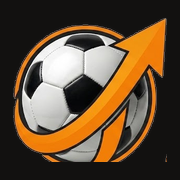
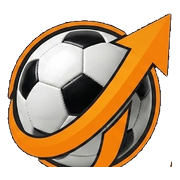
파비콘 배경 제거, 열린 기사에 테두리, 브랜드 색을 실제로 쓰기
파비콘 뒤에 깔아둔 판때기를 없앤다. 공 뒤에 스티커를 붙인 것처럼
보였고, 브라우저가 칠하는 탭 배경과도 싸운다. 투명 배경으로 간다.

열린 기사는 이제 브랜드 주황으로 테두리를 두르고 면을 띄운다. 배경만
살짝 밝히는 건 "내가 연 기사" 가 아니라 hover 로 읽혔다.

브랜드 색이 팔레트 값으로만 있고 화면에는 거의 안 나왔다. 리본
그라디언트를 토큰으로 만들어 실제로 쓴다 — 헤더 아래 2px 룰, 수집
버튼, 사이드바 패널 제목 옆 표식, 모달의 주요 버튼. 강조색 단색으로는
로고의 색이라고 읽히지 않았다.

diff --git a/components/DiscordPanel.tsx b/components/DiscordPanel.tsx
@@ -282,7 +282,14 @@ export function DiscordPanel({ teams }: { teams: Team[] }) {
   return (
     <section className="rounded-xl border border-border bg-surface p-4">
       <div className="flex items-center justify-between">
-        <h2 className="text-[13px] font-semibold">디스코드 알림</h2>
+        <h2 className="flex items-center gap-2 text-[13px] font-semibold">
+          <span
+            aria-hidden
+            className="h-[13px] w-[3px] rounded-full"
+            style={{ background: "var(--ribbon)" }}
+          />
+          디스코드 알림
+        </h2>
         <button
           type="button"
           onClick={openAdd}
@@ -412,7 +419,8 @@ export function DiscordPanel({ teams }: { teams: Team[] }) {
               type="button"
               onClick={unlock}
               disabled={pending || loading || !auth}
-              className="w-full rounded-[5px] bg-accent px-3 py-2.5 text-[12px] font-semibold text-accent-ink transition-opacity hover:opacity-90 disabled:opacity-40"
+              style={{ background: "var(--ribbon)" }}
+              className="w-full rounded-[5px] px-3 py-2.5 text-[12px] font-semibold text-accent-ink transition-opacity hover:opacity-90 disabled:opacity-40"
             >
               {loading ? "확인 중…" : "확인"}
             </button>
@@ -602,7 +610,8 @@ export function DiscordPanel({ teams }: { teams: Team[] }) {
               type="button"
               onClick={submit}
               disabled={pending || loading || !url || picked.length === 0}
-              className="w-full rounded-[5px] bg-accent px-3 py-2.5 text-[12px] font-semibold text-accent-ink transition-opacity hover:opacity-90 disabled:opacity-40"
+              style={{ background: "var(--ribbon)" }}
+              className="w-full rounded-[5px] px-3 py-2.5 text-[12px] font-semibold text-accent-ink transition-opacity hover:opacity-90 disabled:opacity-40"
             >
               {pending ? "저장 중…" : editing ? "수정" : "등록"}
             </button>
@@ -680,7 +689,8 @@ export function DiscordPanel({ teams }: { teams: Team[] }) {
             type="button"
             onClick={claim}
             disabled={pending || claimPass.length < 4}
-            className="w-full rounded-[5px] bg-accent px-3 py-2.5 text-[12px] font-semibold text-accent-ink transition-opacity hover:opacity-90 disabled:opacity-40"
+            style={{ background: "var(--ribbon)" }}
+            className="w-full rounded-[5px] px-3 py-2.5 text-[12px] font-semibold text-accent-ink transition-opacity hover:opacity-90 disabled:opacity-40"
           >
             {pending ? "확인 중…" : "불러오기"}
           </button>

diff --git a/components/ArticleCard.tsx b/components/ArticleCard.tsx
@@ -58,18 +58,24 @@ export function ArticleCard({
   return (
     <article
       // A hairline between rows: without one a column of headlines ran together
-      // and the eye had to find each boundary from the text alone. An open row
-      // gets a lit surface and a brighter rule so it is obvious which story is
-      // being read.
-      className={`group relative border-b border-border/70 transition-colors last:border-b-0 ${
-        open ? "bg-surface-2/70" : ""
+      // and the eye had to find each boundary from the text alone.
+      //
+      // The open row is ringed in the brand orange and lifted off the page. A
+      // tinted background alone was not enough to say "this is the one you
+      // opened" — it read as a hover state.
+      className={`group relative transition-colors ${
+        open
+          ? "z-10 my-1 rounded-lg border border-accent/45 bg-surface-2 shadow-[0_0_0_1px_rgba(241,128,11,0.12),0_8px_24px_-12px_rgba(0,0,0,0.9)]"
+          : "border-b border-border last:border-b-0"
       }`}
     >
       {/* Presence, not decoration: the bar is only as strong as the tier — and
           it widens when the row is open. */}
       <span
         aria-hidden
-        className={`absolute inset-y-0 left-0 transition-all ${open ? "w-[5px]" : "w-[3px]"}`}
+        className={`absolute inset-y-0 left-0 transition-all ${
+          open ? "w-[5px] rounded-l-lg" : "w-[3px]"
+        }`}
         style={{
           backgroundColor: tierRule(row.tier, row.official),
           opacity: open ? 1 : 0.85,

diff --git a/app/page.tsx b/app/page.tsx
@@ -91,7 +91,9 @@ export default async function Home({
     <div className="min-h-screen bg-bg">
       {/* Opaque, not translucent: a backdrop-blur header let article text
             bleed through it while scrolling. */}
-      <header className="sticky top-0 z-30 border-b border-border bg-bg/95 backdrop-blur-sm">
+      {/* The rule under the header is the ribbon, not a grey hairline — the
+          one place the brand colour spans the whole width. */}
+      <header className="sticky top-0 z-30 bg-bg/95 backdrop-blur-sm">
         <div className="mx-auto flex max-w-5xl items-center gap-3 px-4 py-3 sm:px-5">
           {/* ITK — In The Know, transfer-market slang for someone with real
                 sources, which is what the tier list ranks. Doubles as the way
@@ -113,6 +115,11 @@ export default async function Home({
             <CollectButton />
           </div>
         </div>
+        <div
+          aria-hidden
+          className="h-[2px] w-full"
+          style={{ background: "var(--ribbon)" }}
+        />
       </header>
 
       <div className="mx-auto max-w-5xl gap-5 lg:flex lg:px-5 lg:py-5">

diff --git a/components/CollectButton.tsx b/components/CollectButton.tsx
@@ -50,7 +50,8 @@ export function CollectButton() {
         onClick={() => run()}
         disabled={state === "running"}
         title="지금 수집 (0티어 + 매체 피드, 약 30초)"
-        className="inline-flex items-center gap-1.5 rounded-[5px] border border-border px-2.5 py-1.5 text-[11px] font-medium text-muted transition-colors hover:border-border-strong hover:text-text disabled:opacity-50"
+        className="inline-flex items-center gap-1.5 rounded-[5px] px-3 py-1.5 text-[11px] font-semibold text-accent-ink transition-opacity hover:opacity-90 disabled:opacity-50"
+        style={{ background: "var(--ribbon)" }}
       >
         <Refresh className={state === "running" ? "animate-spin" : ""} />
         {state === "running" ? "수집 중" : "수집"}

diff --git a/components/PulsePanel.tsx b/components/PulsePanel.tsx
@@ -24,7 +24,14 @@ export function PulsePanel({ pulse, now }: { pulse: Pulse; now: number }) {
   return (
     <section className="rounded-xl border border-border bg-surface p-4">
       <div className="flex items-baseline justify-between">
-        <h2 className="text-[13px] font-semibold">최근 24시간</h2>
+        <h2 className="flex items-center gap-2 text-[13px] font-semibold">
+          <span
+            aria-hidden
+            className="h-[13px] w-[3px] rounded-full"
+            style={{ background: "var(--ribbon)" }}
+          />
+          최근 24시간
+        </h2>
         <span className="tnum text-[11px] text-faint">{pulse.total}건</span>
       </div>
 

diff --git a/components/AlertPanel.tsx b/components/AlertPanel.tsx
@@ -159,6 +159,11 @@ export function AlertPanel({ teams }: { teams: Team[] }) {
     <section className="rounded-[5px] border border-border bg-surface p-4">
       <div className="flex items-center justify-between">
         <h2 className="flex items-center gap-1.5 text-[13px] font-semibold">
+          <span
+            aria-hidden
+            className="mr-0.5 h-[13px] w-[3px] rounded-full"
+            style={{ background: "var(--ribbon)" }}
+          />
           팀 알림
           <span
             title={live ? "실시간 연결됨" : "폴링 모드"}

diff --git a/app/globals.css b/app/globals.css
@@ -27,6 +27,11 @@
   --muted: #8d8880;
   --faint: #625d56;
 
+  /* The ribbon itself, for the places the brand should actually show up:
+     the rule under the header, the primary button, the panel markers. A flat
+     swatch of the accent was too quiet to read as the logo's colour. */
+  --ribbon: linear-gradient(90deg, #da7c04 0%, #f1800b 45%, #f69230 100%);
+
   /* Sampled from the ribbon in the artwork rather than guessed at. */
   --accent: #f1800b;
   --accent-soft: #f69230;

diff --git a/app/layout.tsx b/app/layout.tsx
@@ -24,7 +24,6 @@ const sans = IBM_Plex_Sans_KR({
   display: "swap",
 });
 
-
 export const viewport: Viewport = {
   themeColor: "#08090c",
   colorScheme: "dark",
@@ -47,9 +46,7 @@ export default function RootLayout({
 }: Readonly<{ children: React.ReactNode }>) {
   return (
     <html lang="ko">
-      <body className={`${sans.variable} antialiased`}>
-        {children}
-      </body>
+      <body className={`${sans.variable} antialiased`}>{children}</body>
     </html>
   );
 }
